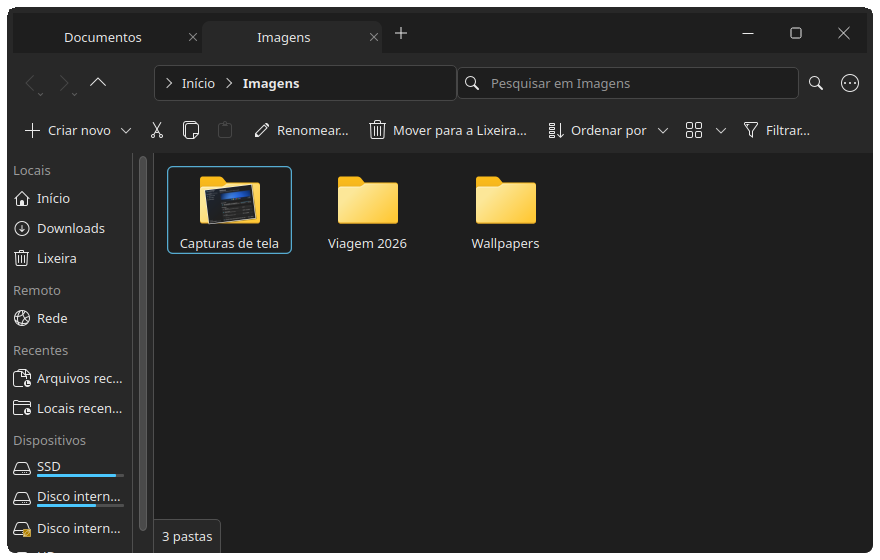
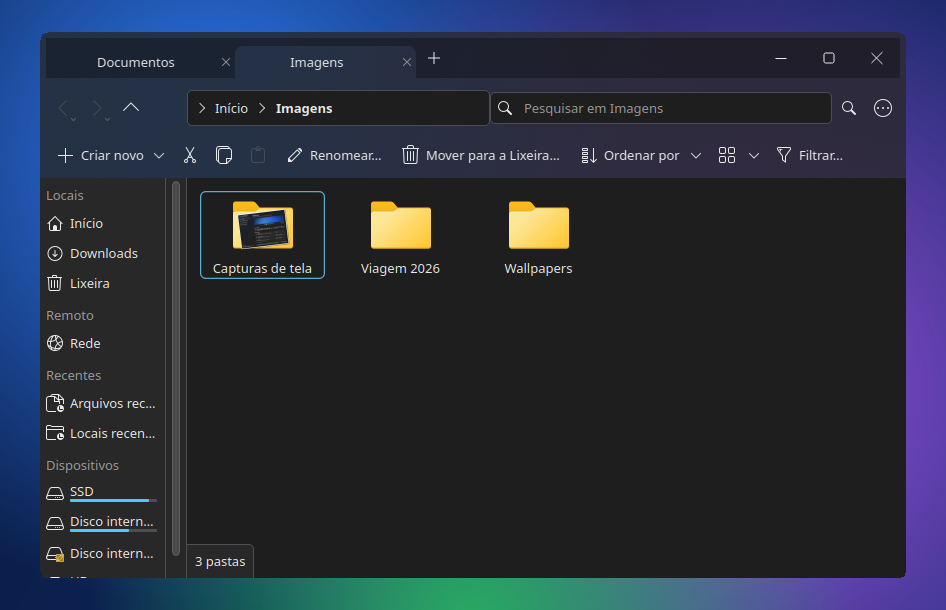
Add a Mica effect to DoorOS-Dolphin
The tab strip, navigation bar and command bar are tinted and let KWin's
blur show through, while the file view and side panel stay solid like in
File Explorer. The rounded-corner effect now draws the window directly,
so partial repaints no longer leave opaque patches. Mica can be switched
off in the app's DoorOS-Dolphin page or with [DoorOS] Mica=false.

diff --git a/gui.py b/gui.py
@@ -462,6 +462,11 @@ class Window(QMainWindow):
         row.addLayout(text, 1)
         row.addWidget(button('Abrir',lambda:QProcess.startDetached(str(ROOT/'dooros-launch.sh'),[])))
         layout.addWidget(hero)
+        layout.addWidget(label('Aparência', 'section'))
+        self.dooros_mica = Toggle(); self.dooros_mica.setChecked(dooros.mica_enabled())
+        self.dooros_mica.toggled.connect(self.set_dooros_mica)
+        layout.addWidget(card('Efeito Mica', 'Abas e barras deixam o papel de parede aparecer, desfocado e tingido, como no Explorador. '
+                              'Vale para as próximas janelas abertas.', self.dooros_mica, 'preferences-desktop-effects'))
         layout.addWidget(label('Configuração', 'section'))
         layout.addWidget(card('Preparar e registrar', 'Adiciona o DoorOS-Dolphin ao menu de aplicativos.',
                               button('Preparar',lambda:self.start_process(['--install'],ROOT/'dooros.py')), 'run-build'))
@@ -472,6 +477,13 @@ class Window(QMainWindow):
         layout.addWidget(label('A compilação para Ubuntu 26.04 não inclui a integração opcional com Baloo 26.08. '
                                'O painel de informações e alguns recursos de indexação podem não estar disponíveis.', 'caption'))
         layout.addStretch();return page
+
+    def set_dooros_mica(self, enabled):
+        try:
+            dooros.set_mica(enabled)
+            self.set_status('Mica ligado no DoorOS-Dolphin. Abra uma nova janela para ver.' if enabled else
+                            'Mica desligado no DoorOS-Dolphin. Abra uma nova janela para ver.', 'ok')
+        except (OSError, dooros.subprocess.SubprocessError) as exc:self.error(exc)
 
     def widgets_page(self):
         page, layout = self.page('Widgets por monitor', 'Escolha uma tela e uma área para ver, configurar, mover ou remover widgets.')

diff --git a/tests/test_gui.py b/tests/test_gui.py
@@ -28,7 +28,8 @@ class GuiTests(unittest.TestCase):
             {'id':33,'kind':'panel','screen':0,'rect':[0,0,1920,1080],'widgets':[]},
         ]}
         for patcher in [patch.object(gui,'CONFIG',root/'gui.json'),patch.object(gui,'STATE',root),
-                        patch.object(gui.plasma,'describe',return_value=self.data),patch.object(gui.dooros,'installed',return_value=True)]:
+                        patch.object(gui.plasma,'describe',return_value=self.data),patch.object(gui.dooros,'installed',return_value=True),
+                        patch.object(gui.dooros,'mica_enabled',return_value=True)]:
             patcher.start();self.addCleanup(patcher.stop)
         self.window=gui.Window();self.addCleanup(self.window.close)
 
@@ -69,3 +70,8 @@ class GuiTests(unittest.TestCase):
         self.assertIsNone(self.window.container())
         with patch.object(gui.plasma,'add') as add:self.window.add_widget()
         add.assert_not_called()
+
+    def test_dooros_mica_toggle_writes_setting(self):
+        self.assertTrue(self.window.dooros_mica.isChecked())
+        with patch.object(gui.dooros,'set_mica') as set_mica:self.window.dooros_mica.setChecked(False)
+        set_mica.assert_called_once_with(False)

diff --git a/dooros.py b/dooros.py
@@ -25,6 +25,25 @@ def binary():return ROOT/'vendor/dooros-dolphin/usr/bin/dolphin'
 def installed():return binary().is_file() and os.access(binary(),os.X_OK)
 
 
+def dolphinrc():return Path(os.environ.get('XDG_CONFIG_HOME') or Path.home()/'.config')/'dolphinrc'
+
+
+def mica_enabled():
+    """Mica (blurred, tinted title and command rows) is on unless [DoorOS] Mica=false in dolphinrc."""
+    section=''
+    try:
+        for line in dolphinrc().read_text().splitlines():
+            line=line.strip()
+            if line.startswith('['):section=line
+            elif section=='[DoorOS]' and line.startswith('Mica='):return line[5:].strip().lower()!='false'
+    except OSError:pass
+    return True
+
+
+def set_mica(enabled):
+    subprocess.run(['kwriteconfig6','--file',str(dolphinrc()),'--group','DoorOS','--key','Mica','true' if enabled else 'false'],check=True)
+
+
 def build(install_deps=False):
     if install_deps:
         subprocess.run(['pkexec','--disable-internal-agent','/usr/bin/python3','-I',str(ROOT/'build-deps.py')],check=True)
